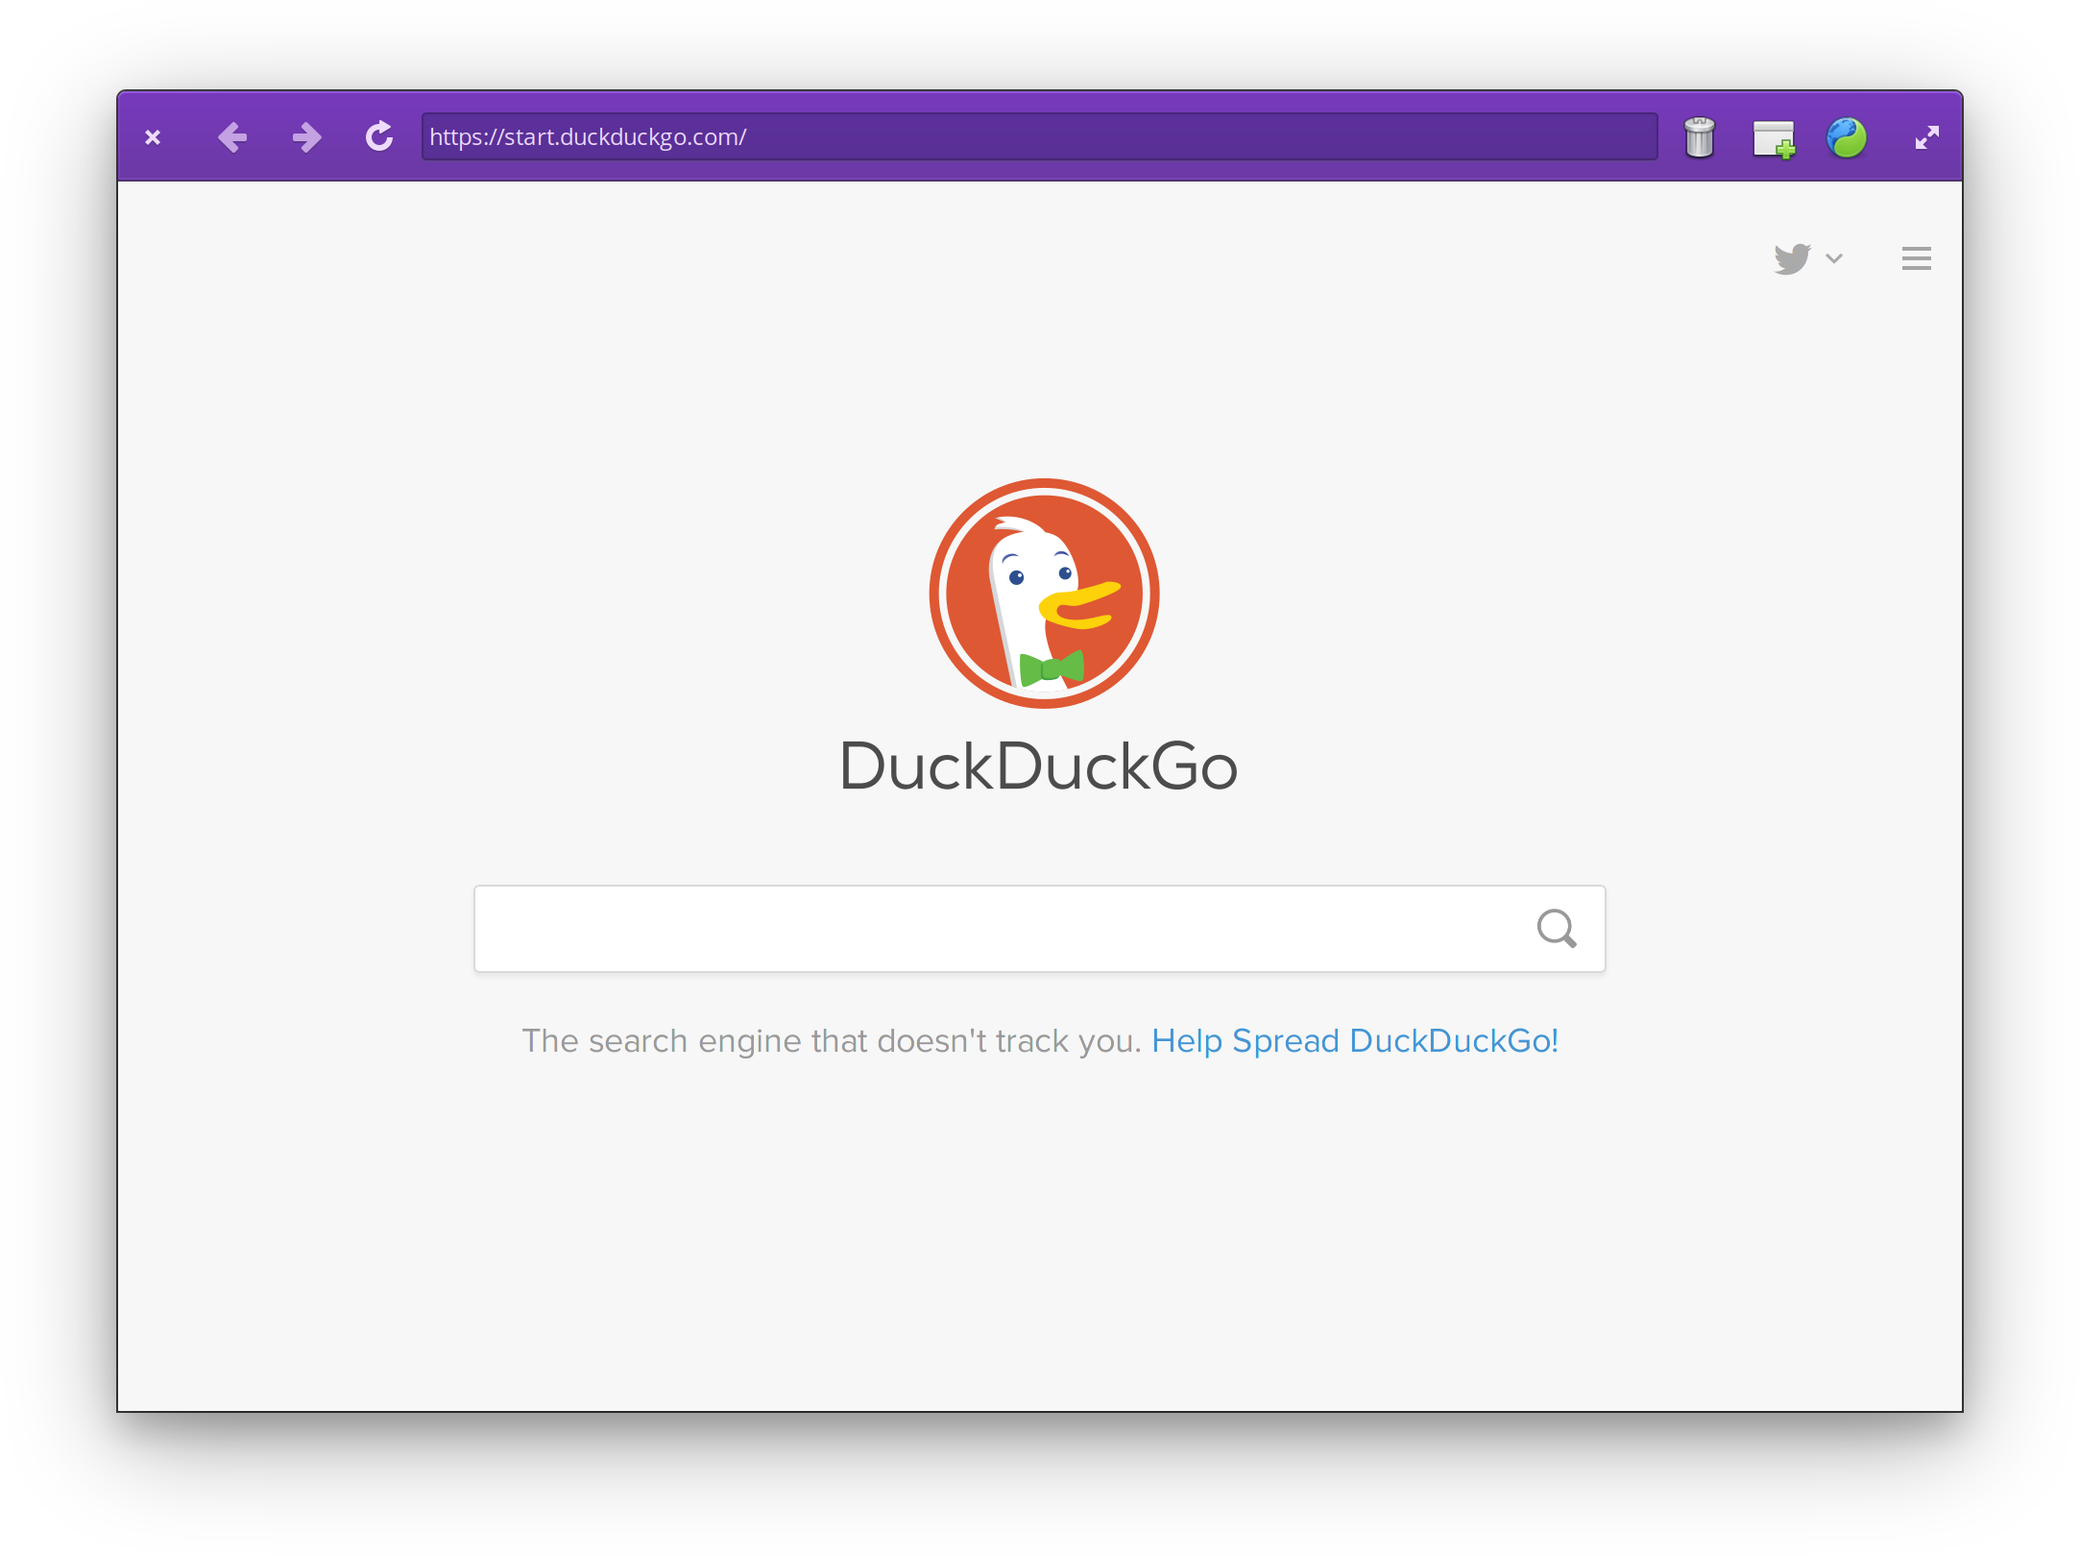
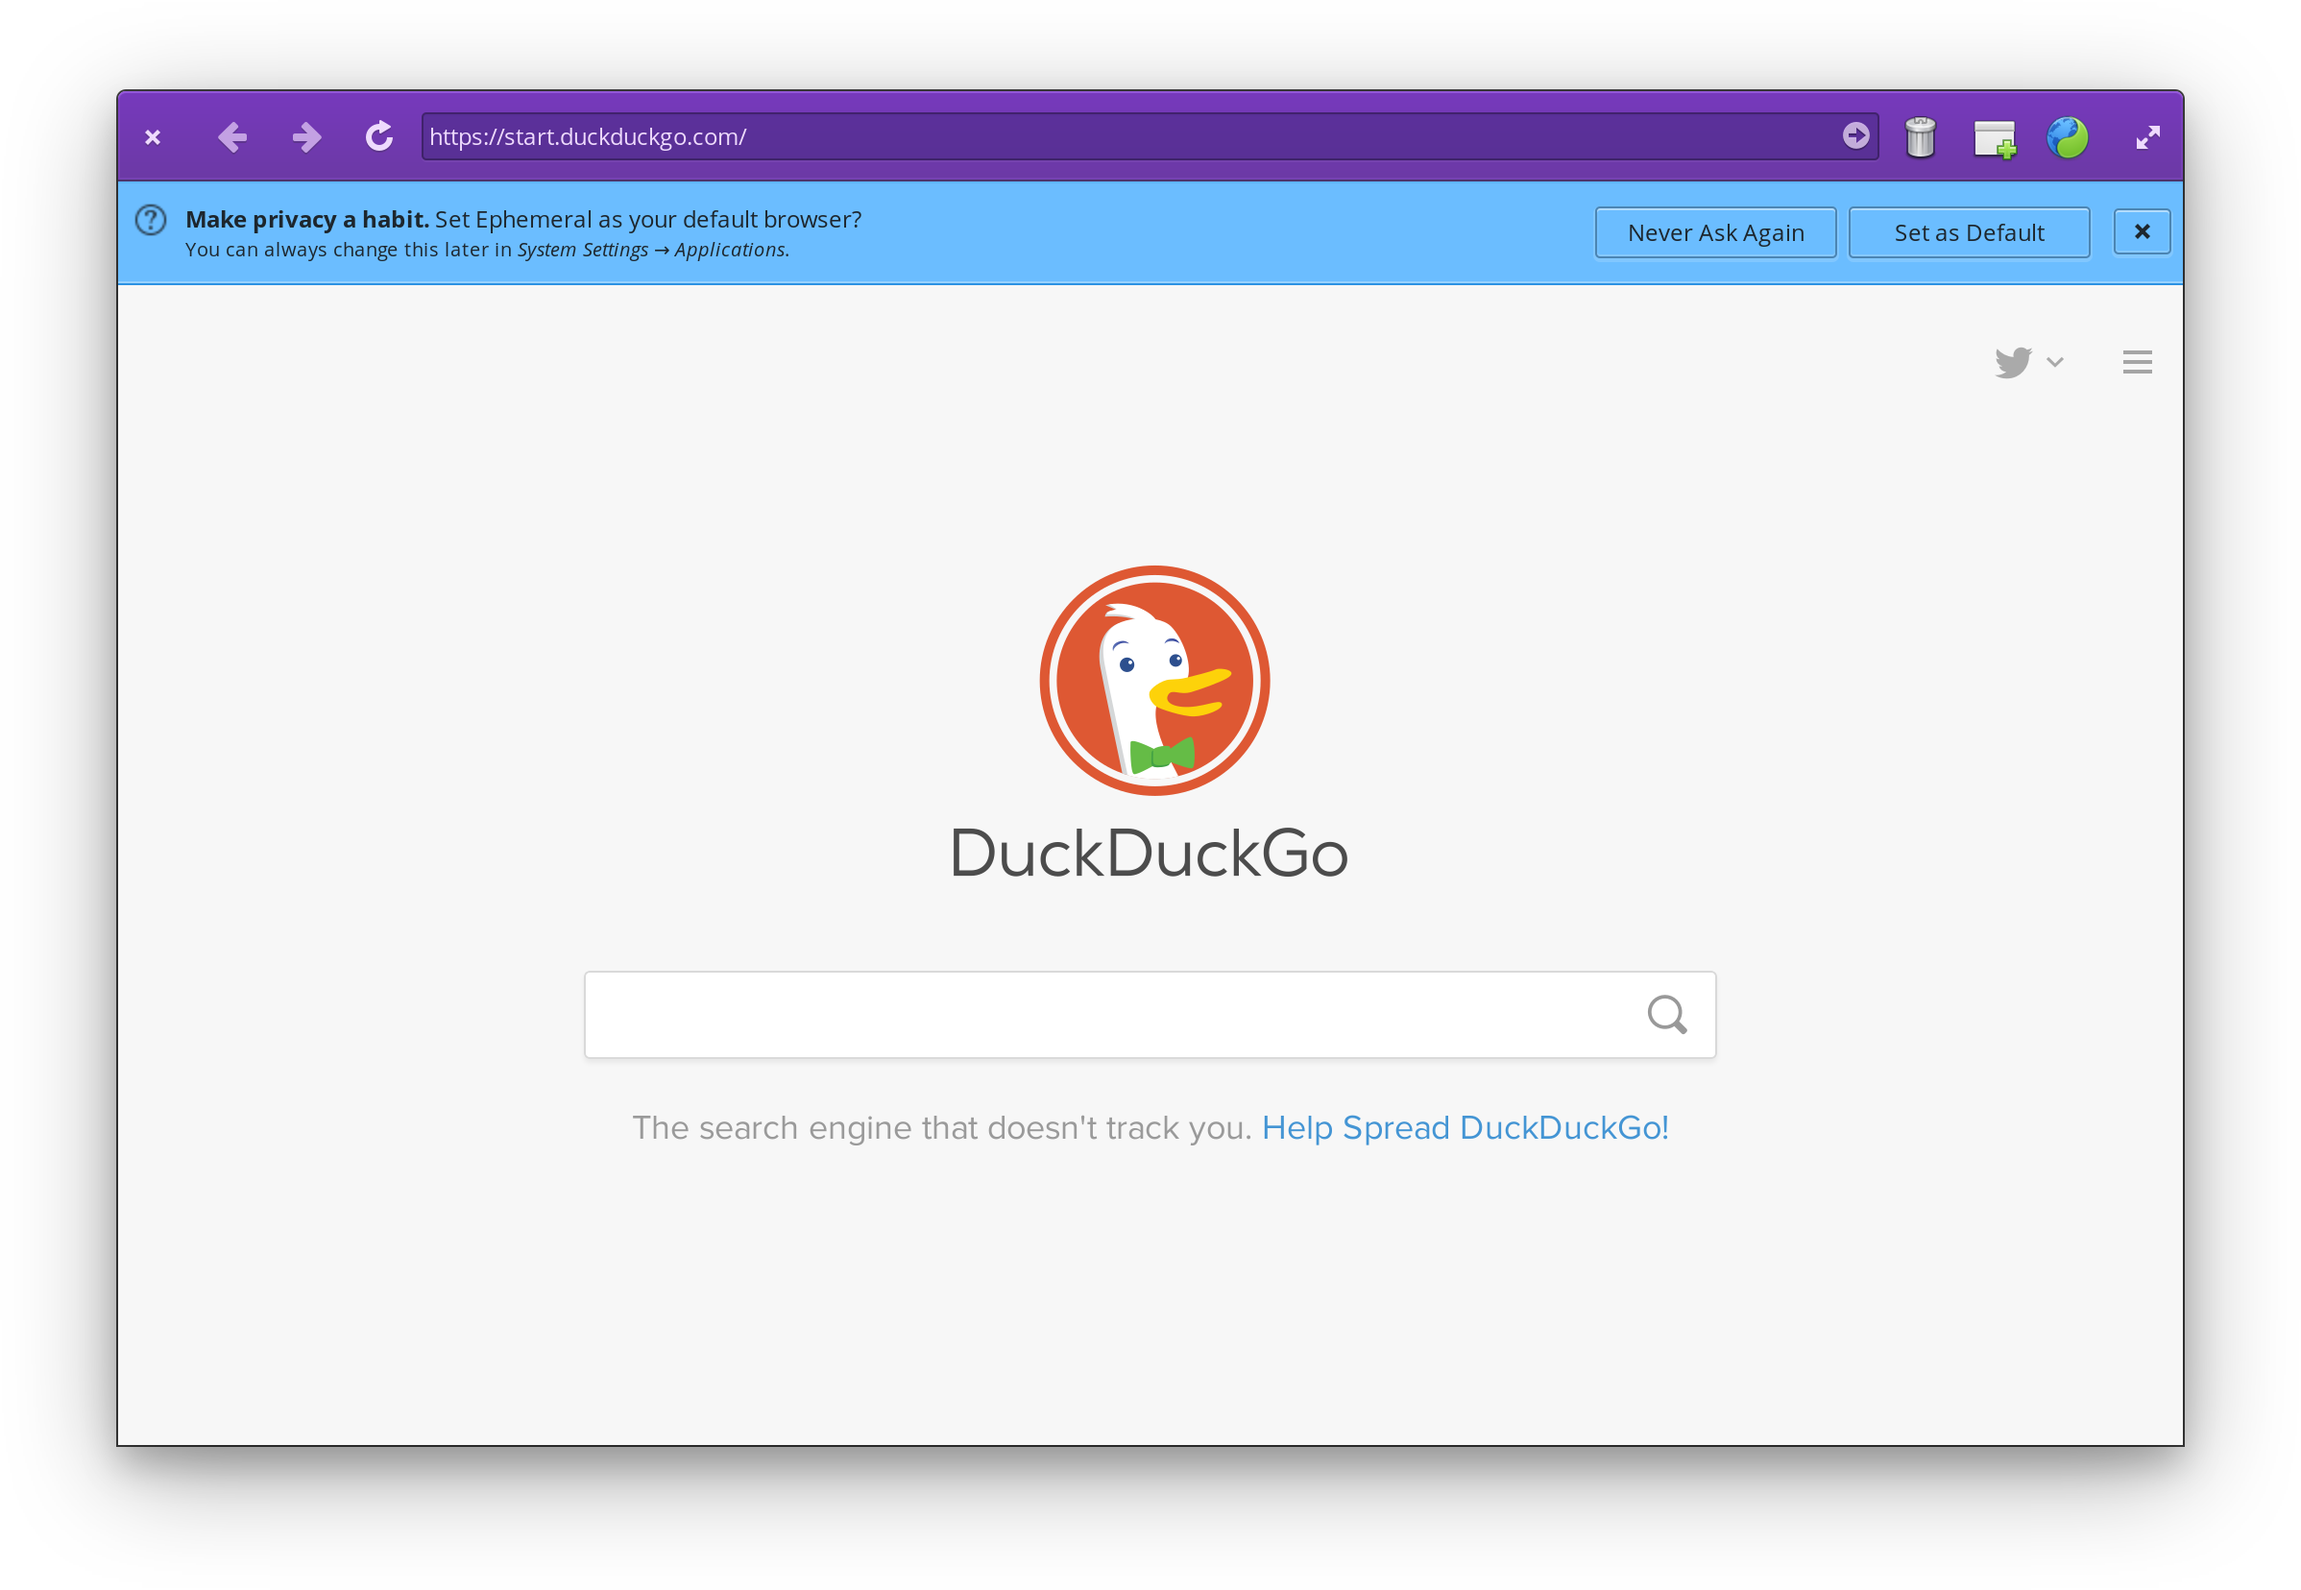
Tweak infobar, update screenshots

diff --git a/data/Application.css b/data/Application.css
@@ -38,3 +38,8 @@
     color: @textColorPrimary;
 }
 
+infobar button.close:not(:active) {
+  border-color: transparent;
+  box-shadow: none;
+}
+
